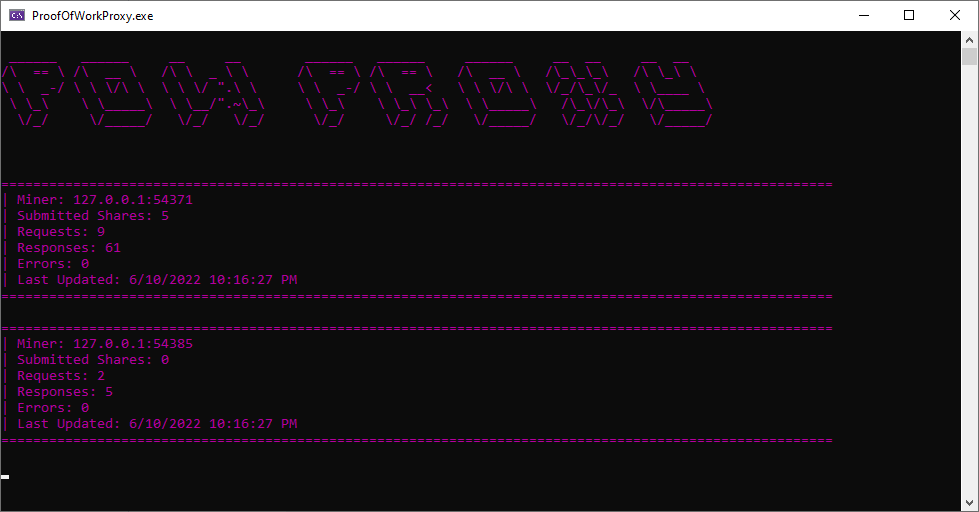
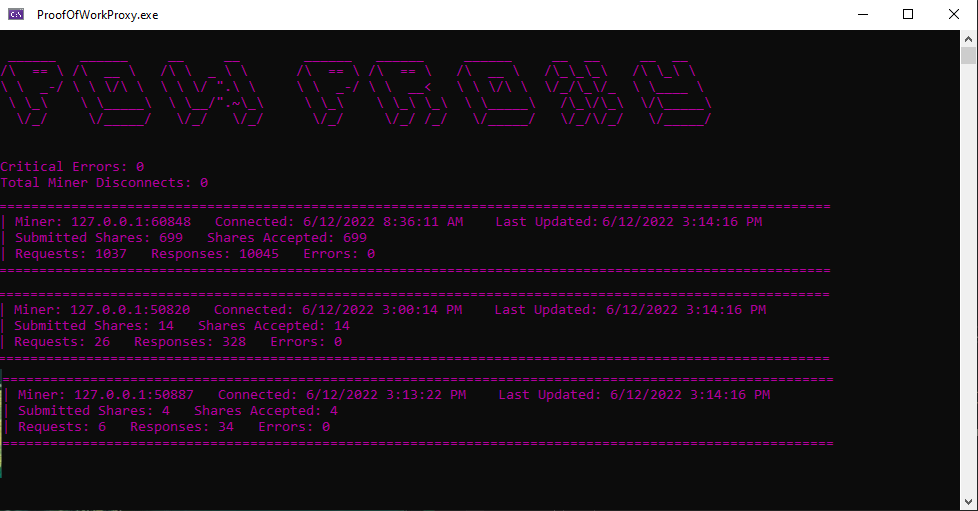
Statistics Update!
- Some minor refactoring
- Added application level statistics so we can we don't have to be around to see errors. We can now see total critical errors and how many clients disconnected during the current proxy session.

diff --git a/ProofOfWorkProxy/Managers/MessageManager.cs b/ProofOfWorkProxy/Managers/MessageManager.cs
@@ -71,7 +71,7 @@ namespace ProofOfWorkProxy.Managers
         private static void ShowTitleOnClearedScreen()
         {
             Console.Clear();
-            new ConsoleMessage(Settings.ApplicationTitle).DisplayMessage();
+            new ConsoleMessage(Settings.ApplicationTitle).DisplayMessage(addNewLine:false);
         }
 
         private void IterateThroughQueuedDebugMessages()
@@ -84,17 +84,23 @@ namespace ProofOfWorkProxy.Managers
 
         private void DisplayStatistics()
         {
+            DisplayApplicationStats();
+
             if (statisticsManager.MinerStatistics.Count == 0)
-            {
                 new ConsoleMessage("Waiting for connections......").DisplayMessage();
-            }
 
             foreach (var (minerId, minerStatistics) in statisticsManager.MinerStatistics)
             {
                 new ConsoleMessage(
                         $"======================================================================================================== {Environment.NewLine}| Miner: {minerId}   Connected: {minerStatistics.ConnectedDateTime}    Last Updated: {minerStatistics.LastUpdated} {Environment.NewLine}| Submitted Shares: {minerStatistics.SharesSubmitted.Count}   Shares Accepted: {minerStatistics.GetAcceptedShares()} {Environment.NewLine}| Requests: {minerStatistics.Requests}   Responses: {minerStatistics.Responses}   Errors: {minerStatistics.Errors} {Environment.NewLine}========================================================================================================")
-                    .DisplayMessage();
+                    .DisplayMessage(addNewLine:false);
             }
+        }
+
+        private void DisplayApplicationStats()
+        {
+            new ConsoleMessage($"Critical Errors: {statisticsManager.TotalCriticalErrorCount}").DisplayMessage(addNewLine:false);
+            new ConsoleMessage($"Total Miner Disconnects: {statisticsManager.TotalMinerDisconnectCount}").DisplayMessage();
         }
 
         private void DisplayMessage()
@@ -111,6 +117,8 @@ namespace ProofOfWorkProxy.Managers
         {
             lock (lockObject)
             {
+                statisticsManager.AddToTotalCriticalErrorCount();
+
                 messageTimer?.Dispose();
 
                 Task.Delay(500)

diff --git a/ProofOfWorkProxy/Managers/StatisticsManager.cs b/ProofOfWorkProxy/Managers/StatisticsManager.cs
@@ -1,5 +1,6 @@
 using System.Collections.Concurrent;
 using System.Linq;
+using System.Threading;
 using ProofOfWorkProxy.Exceptions;
 using ProofOfWorkProxy.Models;
 
@@ -8,6 +9,8 @@ namespace ProofOfWorkProxy.Managers
     public class StatisticsManager : IStatisticsManager
     {
         public ConcurrentDictionary<string, Statistics> MinerStatistics { get; }
+        public long TotalCriticalErrorCount { get; private set; }
+        public long TotalMinerDisconnectCount { get; private set; }
 
         public StatisticsManager()
         {
@@ -59,6 +62,22 @@ namespace ProofOfWorkProxy.Managers
         private bool DoesStatisticExist(string minerId)
         {
             return MinerStatistics.Any(statistics => statistics.Key == minerId);
+        }
+
+        public void AddToTotalCriticalErrorCount()
+        {
+            var totalCriticalErrorCount = TotalCriticalErrorCount;
+            Interlocked.Add(ref totalCriticalErrorCount, 1);
+
+            TotalCriticalErrorCount = totalCriticalErrorCount;
+        }
+
+        public void AddToTotalDisconnectCount()
+        {
+            var totalMinerDisconnectCount = TotalMinerDisconnectCount;
+            Interlocked.Add(ref totalMinerDisconnectCount, 1);
+
+            TotalMinerDisconnectCount = totalMinerDisconnectCount;
         }
     }
 }

diff --git a/ProofOfWorkProxy/Decorators/StatisticsManagerRetryDecorator.cs b/ProofOfWorkProxy/Decorators/StatisticsManagerRetryDecorator.cs
@@ -11,6 +11,8 @@ namespace ProofOfWorkProxy.Decorators
     {
         private readonly IStatisticsManager wrappedStatisticsManager;
         private readonly RetryPolicy retryPolicy;
+        public long TotalCriticalErrorCount => wrappedStatisticsManager.TotalCriticalErrorCount;
+        public long TotalMinerDisconnectCount => wrappedStatisticsManager.TotalMinerDisconnectCount;
         public ConcurrentDictionary<string, Statistics> MinerStatistics => wrappedStatisticsManager.MinerStatistics;
 
         public StatisticsManagerRetryDecorator(IStatisticsManager wrappedStatisticsManager)
@@ -39,6 +41,16 @@ namespace ProofOfWorkProxy.Decorators
         public void RemoveMinerStatistics(string minerId)
         {
             retryPolicy.Execute(() => { wrappedStatisticsManager.RemoveMinerStatistics(minerId); });
+        }
+
+        public void AddToTotalCriticalErrorCount()
+        {
+            wrappedStatisticsManager.AddToTotalCriticalErrorCount();
+        }
+
+        public void AddToTotalDisconnectCount()
+        {
+            wrappedStatisticsManager.AddToTotalDisconnectCount();
         }
     }
 }

diff --git a/ProofOfWorkProxy/DataTransfer/PoolToMinerTransfer.cs b/ProofOfWorkProxy/DataTransfer/PoolToMinerTransfer.cs
@@ -1,6 +1,5 @@
 using Newtonsoft.Json;
 using ProofOfWorkProxy.Connections;
-using ProofOfWorkProxy.Extensions;
 using ProofOfWorkProxy.Managers;
 using ProofOfWorkProxy.Models;
 
@@ -55,16 +54,8 @@ namespace ProofOfWorkProxy.DataTransfer
             if(jsonRpc?.Error != null)
                 statisticsToUpdate.PoolRespondedWithAnError();
 
-            if (IsAcceptedResponse(jsonRpc))
-                statisticsToUpdate.ShareWasAccepted(jsonRpc?.Id);
-        }
-
-        private static bool IsAcceptedResponse(JsonRpcResult jsonRpc)
-        {
-            var resultType = jsonRpc?.Result?.GetType()?.ToString() as string;
-
-            return (resultType.IsBoolean() && jsonRpc?.Id != null && jsonRpc?.Result == true &&
-                    jsonRpc?.Error == null) ;
+            if (jsonRpc != null && jsonRpc.IsAcceptedResponse(jsonRpc))
+                statisticsToUpdate.ShareWasAccepted(jsonRpc.Id);
         }
     }
 }

diff --git a/ProofOfWorkProxy/Models/Statistics.cs b/ProofOfWorkProxy/Models/Statistics.cs
@@ -1,17 +1,16 @@
 using System;
 using System.Collections.Concurrent;
 using System.Linq;
-using System.Runtime.Remoting;
 
 namespace ProofOfWorkProxy.Models
 {
     public class Statistics
     {
-        public ConcurrentBag<SubmittedShare> SharesSubmitted { get; private set; }
+        public ConcurrentBag<SubmittedShare> SharesSubmitted { get; }
         public long Requests { get; private set; }
         public long Responses { get; private set; }
         public long Errors { get; private set; }
-        public DateTime ConnectedDateTime { get; private set; }
+        public DateTime ConnectedDateTime { get; }
         public DateTime LastUpdated { get; private set; }
 
         public Statistics()

diff --git a/ProofOfWorkProxy/Models/JsonRpcResult.cs b/ProofOfWorkProxy/Models/JsonRpcResult.cs
@@ -1,5 +1,6 @@
 using System;
 using System.Runtime.Remoting;
+using ProofOfWorkProxy.Extensions;
 
 namespace ProofOfWorkProxy.Models
 {
@@ -13,6 +14,14 @@ namespace ProofOfWorkProxy.Models
         public static explicit operator ObjectHandle(JsonRpcResult v)
         {
             throw new NotImplementedException();
+        }
+
+        public bool IsAcceptedResponse(JsonRpcResult jsonRpc)
+        {
+            var resultType = jsonRpc?.Result?.GetType()?.ToString() as string;
+
+            return (resultType.IsBoolean() && jsonRpc?.Id != null && jsonRpc?.Result == true &&
+                    jsonRpc?.Error == null);
         }
     }
 }

diff --git a/ProofOfWorkProxy/Extensions/StringExtensions.cs b/ProofOfWorkProxy/Extensions/StringExtensions.cs
@@ -29,10 +29,11 @@ namespace ProofOfWorkProxy.Extensions
             return valueType == typeof(bool).ToString();
         }
 
-        public static void Display(this string message, ConsoleColor color)
+        public static void Display(this string message, ConsoleColor color, bool displayWithNewline = true)
         {
             Console.ForegroundColor = color;
-            Console.WriteLine(message + Environment.NewLine);
+            var addedText = displayWithNewline ? Environment.NewLine : string.Empty;
+            Console.WriteLine($"{message} {addedText}");
         }
 
         public static string GetClassName(this string type)

diff --git a/ProofOfWorkProxy/Managers/IStatisticsManager.cs b/ProofOfWorkProxy/Managers/IStatisticsManager.cs
@@ -5,10 +5,14 @@ namespace ProofOfWorkProxy.Managers
 {
     public interface IStatisticsManager
     {
+        long TotalCriticalErrorCount { get; }
+        long TotalMinerDisconnectCount { get; }
         ConcurrentDictionary<string, Statistics> MinerStatistics { get; }
         void AddNewlyConnectedMiner(string minerId);
         Statistics GetCurrentStatistics(string minerId);
         void AddOrUpdateStatistics(string minerId, Statistics updateStatistics);
         void RemoveMinerStatistics(string minerId);
+        void AddToTotalCriticalErrorCount();
+        void AddToTotalDisconnectCount();
     }
 }

diff --git a/ProofOfWorkProxy/Models/Settings.cs b/ProofOfWorkProxy/Models/Settings.cs
@@ -15,7 +15,7 @@ namespace ProofOfWorkProxy.Models
         public static int MiningPoolPort => ConfigurationManager.AppSettings[MiningPoolPortKey].ToInteger();
         public static bool DebugOn => ConfigurationManager.AppSettings[DebugOnKey].ToBool();
         public static int RetryDelayInSecondsForWhenInternetGoesDown => 10;
-        public static int ErrorMessageDisplayTime => 5;
+        public static int ErrorMessageDisplayTime => 9;
         public static string GitHubIssuesUrl => "https://github.com/SparkyCoder/ProofOfWorkProxy/issues";
 
         public static string ApplicationTitle = @"

diff --git a/ProofOfWorkProxy/Models/ConsoleMessage.cs b/ProofOfWorkProxy/Models/ConsoleMessage.cs
@@ -15,9 +15,9 @@ namespace ProofOfWorkProxy.Models
             this.message = message;
         }
 
-        public void DisplayMessage()
+        public void DisplayMessage(bool addNewLine = true)
         {
-            message.Display(color);
+            message.Display(color, addNewLine);
         }
     }
 }

diff --git a/ProofOfWorkProxy/Decorators/ConnectionDecorator.cs b/ProofOfWorkProxy/Decorators/ConnectionDecorator.cs
@@ -93,6 +93,7 @@ namespace ProofOfWorkProxy.Decorators
             }
 
             statisticsManager.RemoveMinerStatistics(Id);
+            statisticsManager.AddToTotalDisconnectCount();
 
             wrappedConnection.IsTerminated = true;
             IsTerminated = true;
